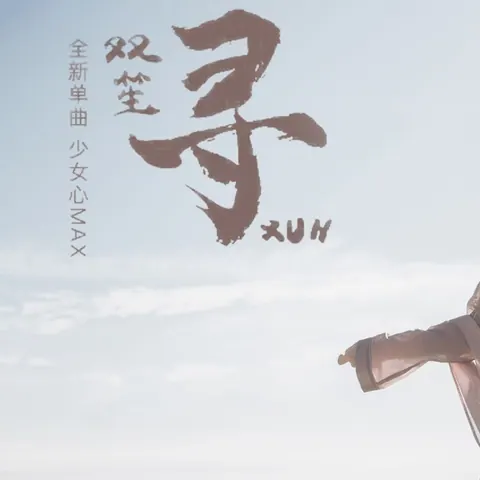
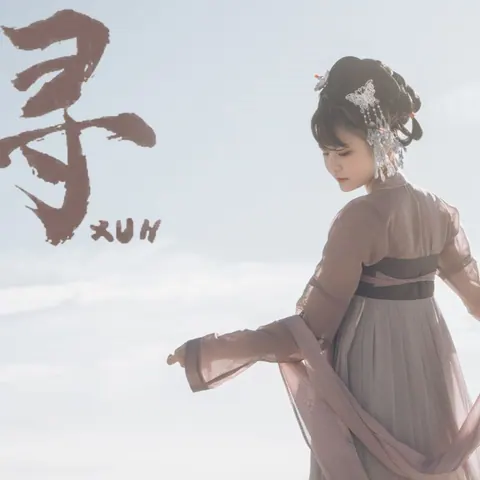
watch 第109+110轮：歌单增删改序与封面替换
第109轮：2021 加 Moon Halo(HOYO-MiX) 删团子大家族并重排 #2~#7，打上花火歌手改 DAOKO / 米津玄師。
第110轮：2019 何须问<->归去来兮调换、オレンジ换昨日青空(尤长靖)；2020 涅槃换闪光的回忆(逃跑计划)、寻换封面。
- FINAL_LAYOUT 新增 2021/2019/2020 三组，ORIGINAL 保留原录入
- 映射表加3删3；三张新原图入库 assets/songs（寻_旧.jpg 留档）
- 缩略图 t/ 66 张（删3孤儿+加3新），cv 哈希按内容回填
- 修第108轮整理后失效路径：脚本 ARCH/IMG、verify105 MAP_FILE、CONTINUE-WATCH
只改数据+素材，零源码改动，不 bump 版本号。

diff --git a/开发文档/CONTINUE-WATCH.md b/开发文档/CONTINUE-WATCH.md
@@ -83,7 +83,7 @@ steam-playtime/
 └── 开发文档/                       本文件 + CONTINUE-GAMETIME.md + 目录结构.md（不发布）
 ```
 
-⚠ **`FINAL_LAYOUT` 与歌单主脚本不在仓库里**：`补全歌手与改名.mjs`、`生成封面缩略图.mjs`、`歌名_歌手映射.json` 都在归档目录（`C:\Users\33329\Documents\Misc\对话成果\2026-11-15_watch第104轮_年度歌单框架\文档\`）。它们写 `songs.json` 时**幂等重算**——直接手改 `songs.json` 会被下一次运行还原。要改顺序 / 换歌必须走 `FINAL_LAYOUT`（主脚本顶部，现有 2026/2025/2024/2023/2022/2018 六组）。
+⚠ **`FINAL_LAYOUT` 与歌单主脚本不在仓库里**：`补全歌手与改名.mjs`、`生成封面缩略图.mjs`、`歌名_歌手映射.json` 在 `C:\Users\33329\Documents\Misc\对话成果\Steam游戏时长站\维护工具\`（2026-11-16 整合后从原第 104 轮归档迁入；🔴 两份脚本的 `ARCH` 与缩略图脚本的 `IMG`（→ `assets/songs`）已同步改到新址，测试 `verify105` 的 `MAP_FILE` 同）。它们写 `songs.json` 时**幂等重算**——直接手改 `songs.json` 会被下一次运行还原。要改顺序 / 换歌必须走 `FINAL_LAYOUT`（主脚本顶部，2026/2025/2024/2023/2022/2018/2021 七组；2021 为 2026-11-17 新增）。🔴 新增歌曲要跑**两遍**缩略图脚本：第一遍主脚本才把新歌写进 `songs.json`，第二遍才抓到它生成缩略图并回填 `cv` 哈希。
 
 ---
 
